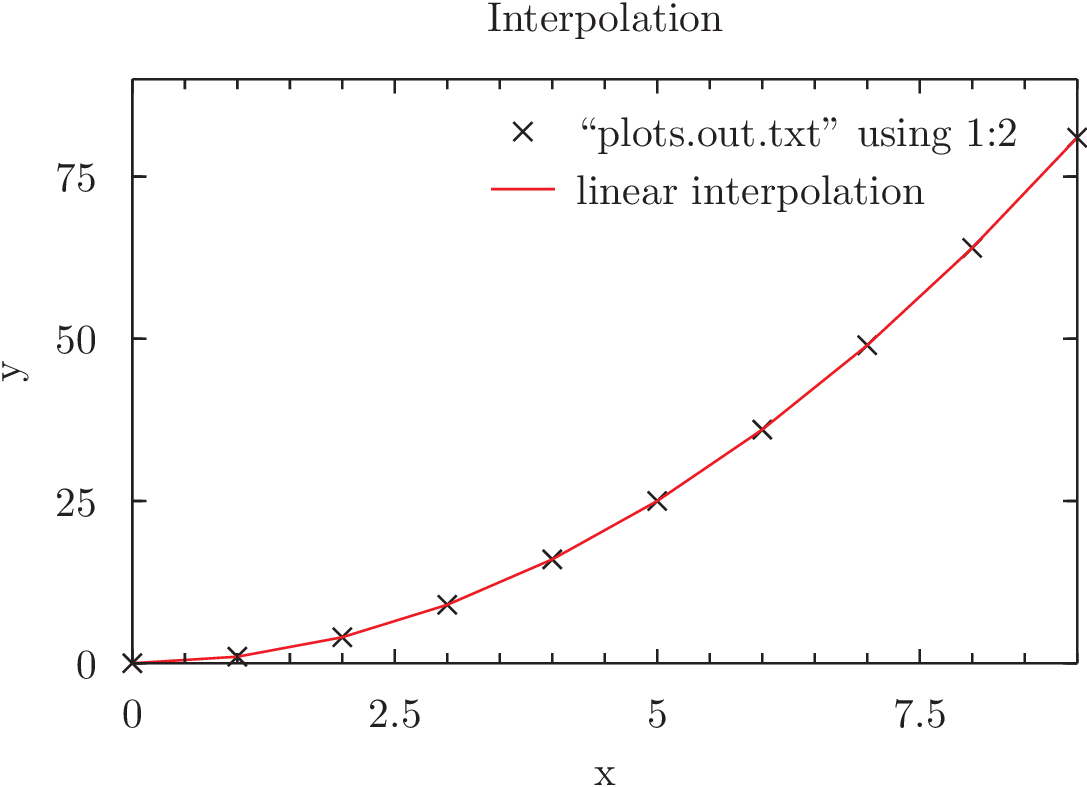
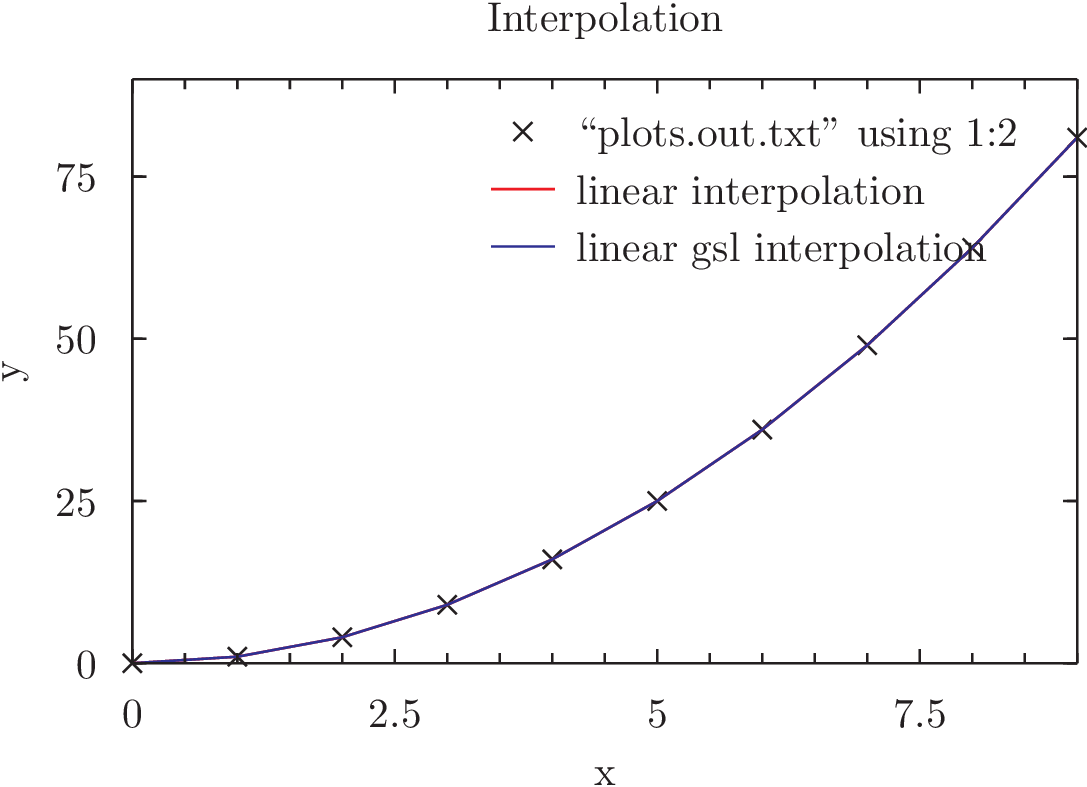
16/3

diff --git a/homeworks/Interpolation/linear.c b/homeworks/Interpolation/linear.c
@@ -136,7 +136,7 @@ int main(){
 
 	FILE* gsldata = fopen("gslinfo.txt","w");	
 	for(z=0; z<=thin*(n-1);z++){
-		fprintf(gsldata,"%10g %10g \n",linterp_gsl(n,x,y,z/thin),linterp_integ_gsl(n,x,y,z/thin));
+		fprintf(gsldata,"%10g %10g %10g \n",z/thin, linterp_gsl(n,x,y,z/thin),linterp_integ_gsl(n,x,y,z/thin));
 	}
 
 
